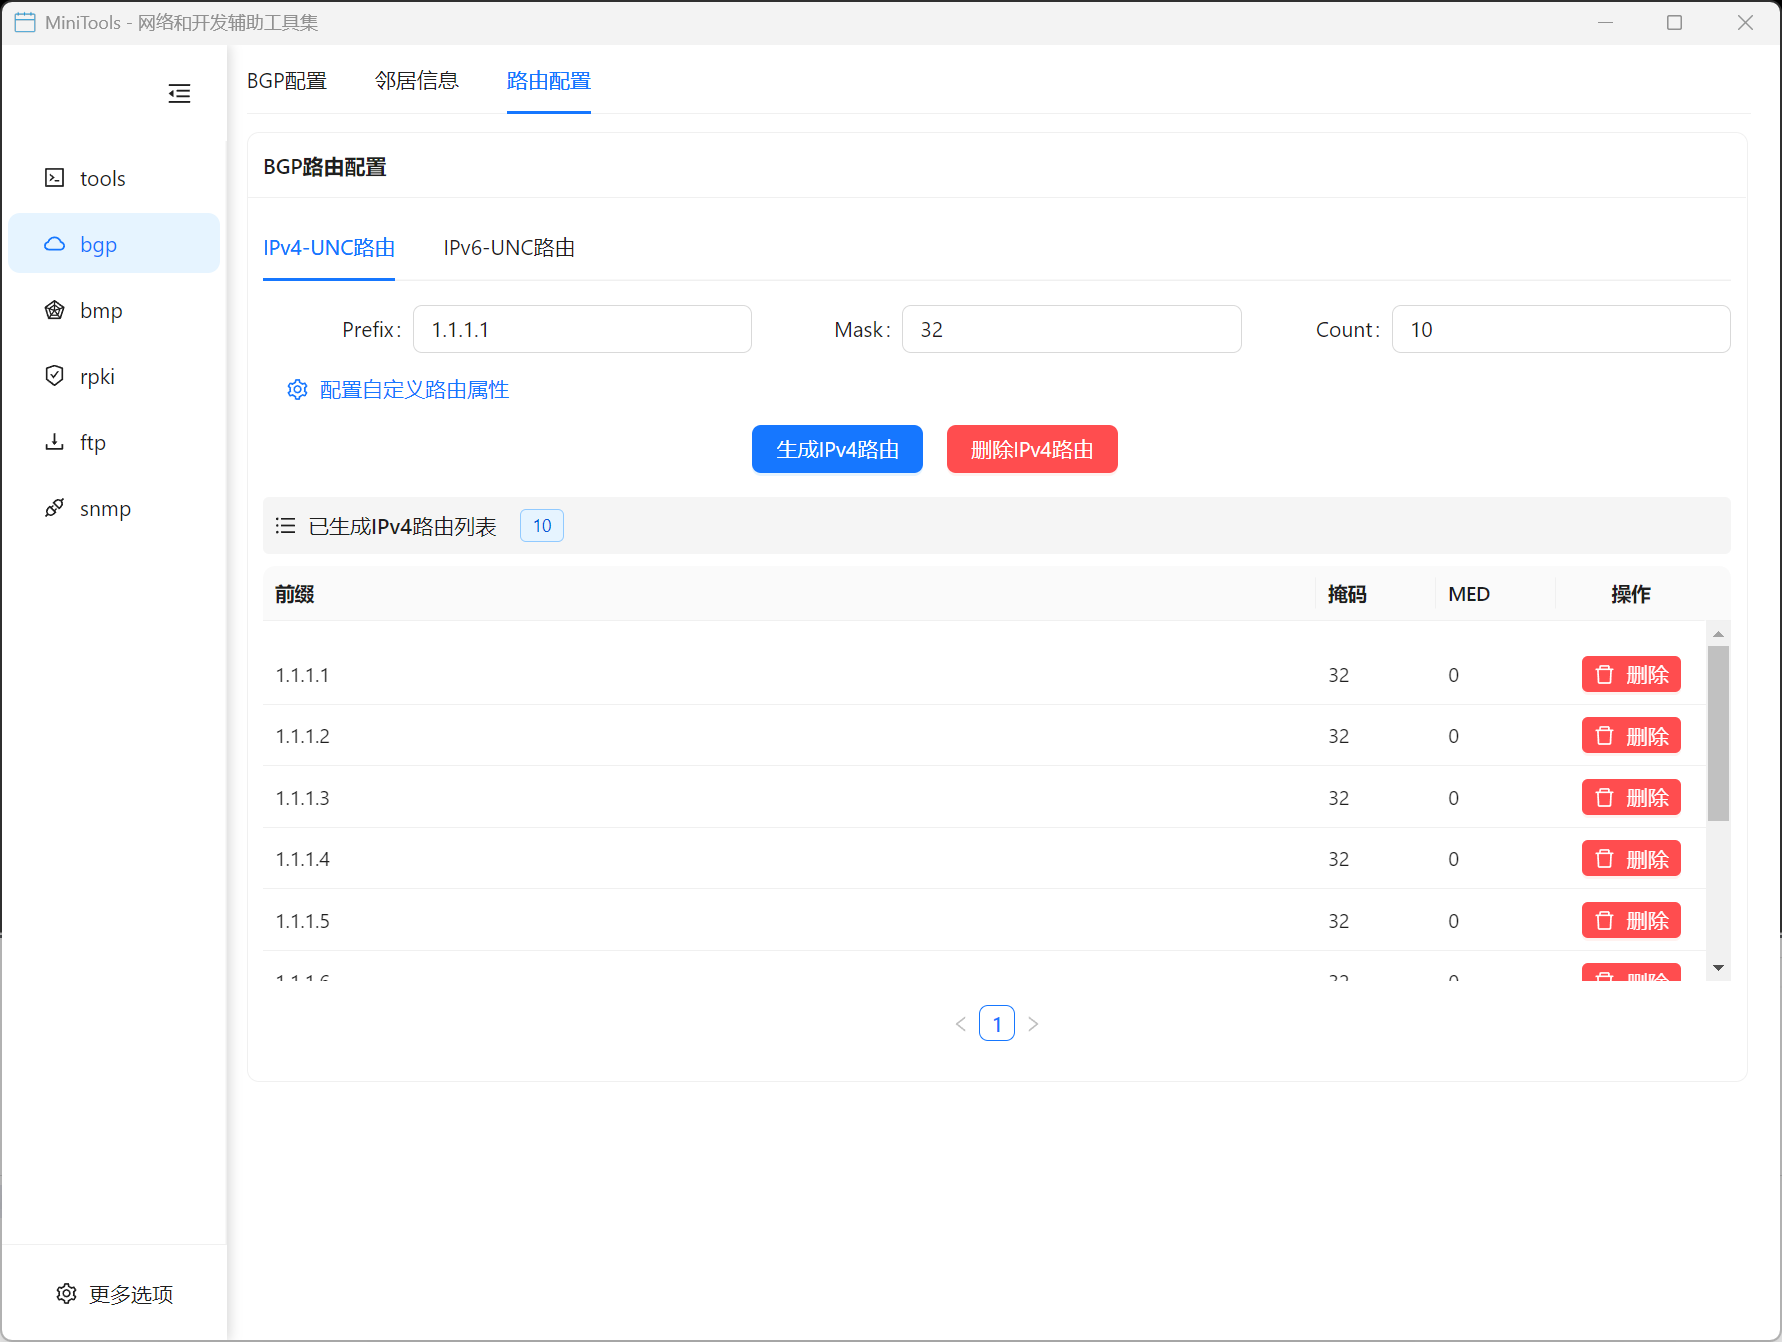
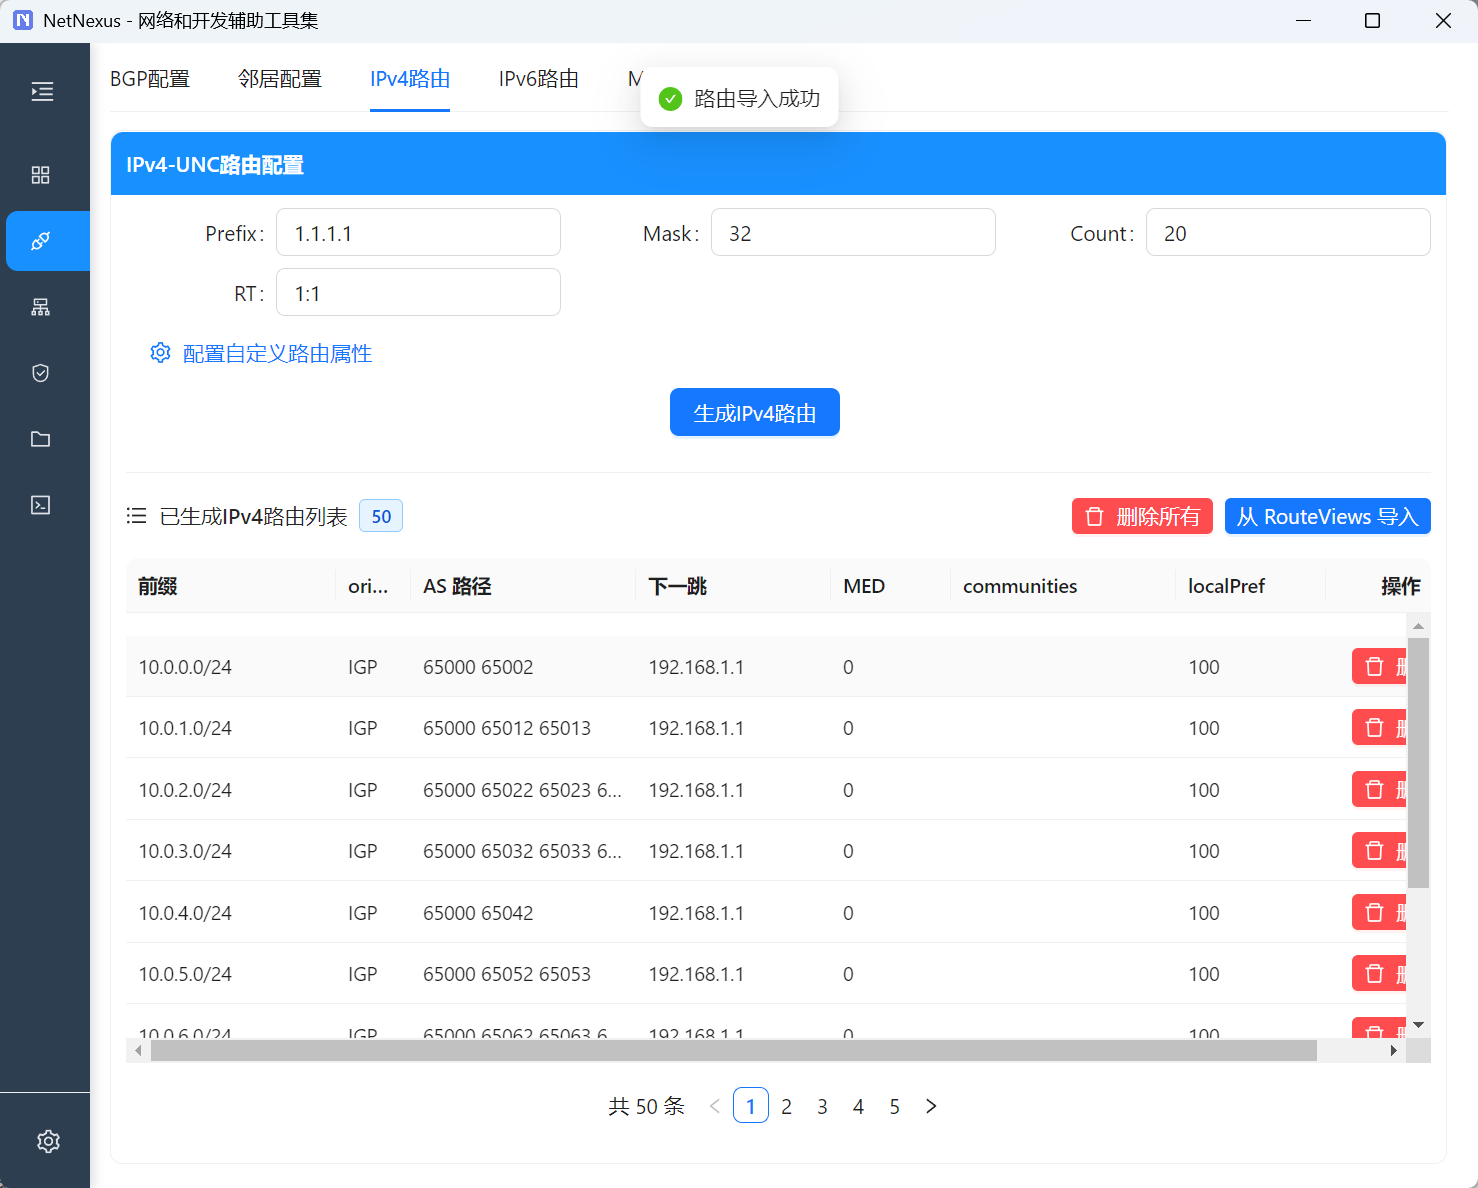
优化文档

diff --git a/src/view/bmp/BgpSession.vue b/src/view/bmp/BgpSession.vue
@@ -97,7 +97,7 @@
                                                         `${record.addrFamilyType}|${record.rd}|${record.ip}|${record.mask}`
                                                 "
                                                 size="small"
-                                                :scroll="{ y: 360 }"
+                                                :scroll="{ y: 320 }"
                                             />
                                         </a-tab-pane>
                                     </a-tabs>
@@ -477,7 +477,7 @@
 
 <style scoped>
     :deep(.ant-table-body) {
-        height: 360px !important;
+        height: 320px !important;
         overflow-y: auto !important;
     }
 

diff --git a/web/src/components/Footer.vue b/web/src/components/Footer.vue
@@ -1,7 +1,7 @@
 <template>
     <footer class="footer">
         <div class="container footer-content">
-            <div class="copyright">© 2025 Mini Tools. All Rights Reserved.</div>
+            <div class="copyright">© 2026 Mini Tools. All Rights Reserved.</div>
             <div class="links">
                 <a href="https://github.com/jihuaib/NetNexus" target="_blank" rel="noopener">GitHub</a>
                 <a href="https://github.com/jihuaib/NetNexus/issues" target="_blank" rel="noopener">Support</a>

diff --git a/docs/SETTINGS.md b/docs/SETTINGS.md
@@ -1,0 +1,263 @@
+# 设置
+
+NetNexus 提供丰富的设置选项,允许用户根据需求自定义应用行为和配置各种功能模块。
+
+## 功能特性
+
+### 设置分类
+应用设置分为以下几个类别,每个类别管理特定功能模块的配置:
+
+- **通用设置**: 应用全局配置,如日志级别
+- **工具集合**: 工具模块的历史记录和存储配置
+- **FTP服务器**: FTP 服务器相关配置
+- **服务器部署**: Linux 服务器代理程序部署
+- **Keychain**: TCP MD5 认证密钥管理
+- **应用更新**: 自动更新和版本管理
+
+![设置界面](images/setting/setting.png)
+
+## 设置详解
+
+### 通用设置
+
+#### 日志级别配置
+控制应用的日志输出详细程度,帮助调试和问题排查。
+
+**可选级别**:
+- **debug**: 调试级别,输出最详细的日志信息
+- **info**: 信息级别,输出一般运行信息
+- **warn**: 警告级别,仅输出警告和错误信息
+- **error**: 错误级别,仅输出错误信息
+
+**使用建议**:
+- 日常使用推荐 `info` 级别
+- 遇到问题时可切换到 `debug` 级别以获取详细日志
+- 生产环境建议使用 `warn` 或 `error` 级别
+
+---
+
+### 工具集合设置
+
+管理各个工具模块的历史记录存储配置,控制历史数据的保留数量。
+
+#### 字符串生成历史
+- **配置项**: 字符串生成历史记录最大存储条数
+- **范围**: 10 - 1000 条
+- **默认值**: 100 条
+- **说明**: 控制字符串生成器保存的历史记录数量
+
+#### 报文解析历史
+- **配置项**: 报文解析历史记录最大存储条数
+- **范围**: 10 - 1000 条
+- **默认值**: 100 条
+- **说明**: 控制报文解析器保存的解析历史数量
+
+#### 格式化工具历史
+- **配置项**: 格式化历史记录最大存储条数
+- **范围**: 10 - 1000 条
+- **默认值**: 100 条
+- **说明**: 控制格式化工具保存的格式化历史数量
+
+**优化建议**:
+- 如果磁盘空间充足,可以增大历史记录数量
+- 如果需要节省空间,可以适当减小历史记录数量
+- 历史记录过多可能影响加载速度
+
+---
+
+### FTP 服务器设置
+
+#### FTP 用户管理
+- **配置项**: FTP 用户最大存储条数
+- **范围**: 10 - 1000 个
+- **默认值**: 100 个
+- **说明**: 控制 FTP 服务器可以创建的最大用户数量
+
+---
+
+### 服务器部署
+
+Linux 服务器部署功能用于在远程 Linux 服务器上部署 TCP MD5 代理程序,支持需要 MD5 认证的协议功能。
+
+#### 为什么需要部署？
+某些协议功能(如 BMP 的 MD5 认证、RPKI 的 MD5 认证)需要在 Linux 服务器上部署代理程序。部署一次后,可供多个协议模块使用。
+
+#### 部署配置
+- **Linux 服务器地址**: 目标 Linux 服务器的 IP 地址
+- **SSH 用户名**: SSH 登录用户名(通常为 root)
+- **SSH 密码**: SSH 登录密码
+
+#### 部署内容
+部署过程会自动完成以下步骤:
+1. 安装 gcc 编译器
+2. 上传代理程序源码
+3. 编译代理程序
+4. 配置自动启动脚本
+5. 配置防火墙规则
+
+#### 数据流向
+```
+┌─────────────────────────┐
+│      Router             │  路由器主动连接
+│                         │
+└────────┬────────────────┘
+         │ TCP + MD5 签名
+         ↓
+┌─────────────────────────┐
+│  Linux Server           │  验证 MD5 并转发
+│                         │
+│  tcp-md5-helper         │
+└────────┬────────────────┘
+         │ SSH 加密转发
+         ↓
+┌─────────────────────────┐
+│  Windows App            │  接收并处理数据
+│                         │
+└─────────────────────────┘
+```
+
+**工作流程**:
+1. BMP/RPKI 路由器连接到 Linux 服务器的指定端口(带 MD5 签名)
+2. Linux 代理验证 MD5 签名,接受连接
+3. 数据通过 SSH 转发加密传输到 Windows
+4. Windows 应用接收并处理数据
+
+**重要提示**:
+- 只需部署一次,代理程序会一直运行在 Linux 服务器上
+- 除非更换服务器或需要更新代理程序,否则不需要重新部署
+- 部署前可以使用"测试连接"功能验证 SSH 连接
+
+---
+
+### Keychain 配置
+
+Keychain 是 TCP MD5 认证密钥管理系统,用于管理 BGP、BMP、RPKI 等协议的 MD5 认证密钥。
+
+#### 什么是 Keychain？
+Keychain 是一种密钥链机制,用于管理 TCP MD5 认证密钥。每个 Keychain 可以包含多个密钥,支持密钥轮换和时间窗口控制。
+
+#### Keychain 管理
+- **创建 Keychain**: 为不同的对等体或协议创建独立的密钥链
+- **编辑 Keychain**: 修改密钥链名称和描述
+- **删除 Keychain**: 删除不再使用的密钥链
+
+#### 密钥管理
+每个 Keychain 可以包含多个密钥,每个密钥包含以下属性:
+
+**基本属性**:
+- **Key ID**: 密钥标识符 (0-255)
+- **算法**: 加密算法,支持 MD5、HMAC-SHA-1、HMAC-SHA-256 等
+- **密码**: 密钥字符串
+
+**时间控制**:
+- **发送时间段**: 控制密钥何时可用于发送数据
+  - 始终发送: 密钥一直有效
+  - 时间范围: 指定开始和结束时间
+- **接受时间段**: 控制密钥何时可用于接收数据
+  - 始终接受: 密钥一直有效
+  - 时间范围: 指定开始和结束时间
+
+**密钥操作**:
+- **添加密钥**: 向 Keychain 添加新密钥
+- **编辑密钥**: 修改密钥属性和时间窗口
+- **删除密钥**: 删除不再使用的密钥
+
+**使用场景**:
+- BGP 对等体 MD5 认证
+- BMP 服务器 MD5 认证
+- RPKI 服务器 MD5 认证
+- 密钥定期轮换
+- 多密钥平滑切换
+
+---
+
+### 应用更新
+
+应用更新设置允许用户配置自动更新行为,并手动检查和安装更新。
+
+![更新设置](images/setting/setting-updater.png)
+
+#### 版本信息
+- **当前版本**: 显示当前安装的应用版本
+- **更新状态**: 显示更新检查和下载状态
+
+#### 手动更新操作
+- **检查更新**: 手动检查是否有新版本可用
+- **下载更新**: 发现新版本后下载更新包
+- **重启并安装**: 下载完成后重启应用并安装更新
+
+#### 自动更新设置
+
+**启动时检查更新**:
+- 启用后,应用启动时会自动检查更新
+- 推荐开启,以便及时获取新功能和修复
+
+**自动下载更新**:
+- 启用后,发现更新时会自动下载(仍需手动安装)
+- 可根据网络情况选择是否开启
+
+**更新流程**:
+1. 应用检查 GitHub Releases 获取最新版本
+2. 如果有新版本,显示更新提示
+3. 用户可选择立即下载或稍后下载
+4. 下载完成后,用户可选择立即安装或稍后安装
+5. 安装时应用会重启并应用更新
+
+**注意事项**:
+- 更新功能仅在生产环境(打包后的应用)中可用
+- 开发环境中更新功能不可用
+- 更新过程中请勿关闭应用
+- 更新完成后会自动重启应用
+
+## 使用指南
+
+### 打开设置
+1. 点击主界面左下角的"更多选项"按钮
+2. 在下拉菜单中选择"设置"
+3. 设置对话框会打开,显示所有设置分类
+
+### 切换设置分类
+- 在设置对话框左侧的菜单中点击不同的分类
+- 右侧会显示对应分类的设置内容
+
+### 保存设置
+- 修改设置后,点击"保存设置"按钮
+- 设置会立即生效并保存到本地
+- 某些设置可能需要重启应用才能完全生效
+
+## 常见问题
+
+**Q: 修改日志级别后需要重启应用吗？**
+A: 不需要,日志级别修改后会立即生效。
+
+**Q: 历史记录数量设置为多少合适？**
+A: 默认值 100 条对大多数用户已经足够。如果经常需要查看历史记录,可以增加到 200-500 条。
+
+**Q: 服务器部署失败怎么办？**
+A: 首先使用"测试连接"功能验证 SSH 连接是否正常。确保 Linux 服务器可以访问互联网(用于安装依赖)。
+
+**Q: Keychain 中可以有多少个密钥？**
+A: 每个 Keychain 可以包含任意数量的密钥,但建议不超过 10 个以便管理。
+
+**Q: 如何禁用自动更新？**
+A: 关闭"启动时检查更新"开关即可禁用自动更新检查。
+
+**Q: 更新下载很慢怎么办？**
+A: 更新文件托管在 GitHub,国内访问可能较慢。可以稍后重试或手动从 GitHub Releases 页面下载。
+
+## 技术说明
+
+### 配置存储
+- 所有设置保存在本地配置文件中
+- 使用 electron-store 进行配置管理
+- 配置文件位于用户数据目录
+
+### 服务器部署技术
+- 使用 SSH2 库进行远程连接
+- 自动化部署脚本基于 Shell 命令
+- 代理程序使用 C 语言编写,支持 TCP MD5 签名
+
+### 更新机制
+- 基于 electron-updater 实现
+- 使用 GitHub Releases 作为更新源
+- 支持增量更新和完整更新

diff --git a/docs/BGP_SIMULATOR.md b/docs/BGP_SIMULATOR.md
@@ -39,6 +39,8 @@ BGP 模拟器是一个强大的 BGP 协议模拟工具，支持完整的 BGP 会
 - 单条路由删除和批量删除
 - 路由列表分页显示
 
+![BGP 路由导入](images/bgp/bgp-import-route.png)
+
 #### IPv6 路由管理
 - IPv6 单播路由生成和管理
 - 支持批量路由生成
